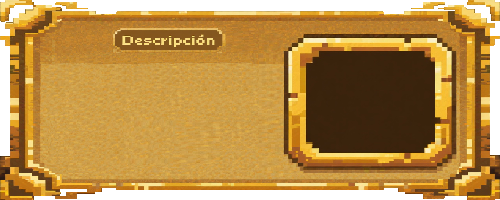
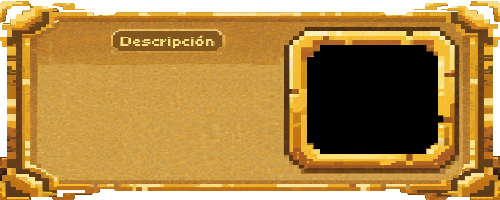
26

diff --git a/js/Scenes/EscenaElegir.js b/js/Scenes/EscenaElegir.js
@@ -1,5 +1,4 @@
 import { getState, setPersonajesEnUso } from '../globals.js';
-import { reescalarGlobalFlexible } from '../uiHelpers.js';
 
 export class EscenaElegir extends Phaser.Scene {
     constructor() {
@@ -10,12 +9,18 @@ export class EscenaElegir extends Phaser.Scene {
     }
 
     create() {
+        // ==============================================================
         // 1. CREACIÓN DE FONDOS Y ELEMENTOS ESTÁTICOS
-        this.fondo = this.add.image(0, 0, 'fondoVestuario').setDepth(1);
-        this.fondoPersonajes = this.add.image(0, 0, 'fondoPersonajes').setDepth(2);
+        // ==============================================================
         
-        // Título estilizado
-        this.tituloElegir = this.add.text(0, 0, 'Elige tu personaje', {
+        // Fondos centrados (825, 450)
+        this.fondo = this.add.image(825, 450, 'fondoVestuario').setDepth(1).setScale(1); // <-- Modifica la escala aquí
+        
+        // Panel izquierdo donde van los personajes (X: 528 = 32% de 1650 aprox)
+        this.fondoPersonajes = this.add.image(528, 657, 'fondoPersonajes').setDepth(2).setScale(1); // <-- Modifica la escala aquí
+        
+        // Título estilizado (Arriba, alineado con el panel izquierdo)
+        this.tituloElegir = this.add.text(528, 54, 'Elige tu personaje', {
             fontFamily: 'Silkscreen',
             fontSize: '40px',
             color: '#000000',
@@ -23,14 +28,32 @@ export class EscenaElegir extends Phaser.Scene {
             padding: { left: 22, right: 30, top: 5, bottom: 10 },
             align: 'center',
             fixedWidth: 600
-        }).setDepth(3);
+        }).setDepth(3).setOrigin(0.5).setScale(1); // <-- Modifica la escala aquí
 
-        // 2. BOTONES DE INTERFAZ
-        this.botonRegresar = this.add.image(0, 0, 'botonRegresar').setDepth(3).setInteractive({ useHandCursor: true });
-        this.iconoPersona = this.add.image(0, 0, 'iconoPersona').setDepth(3).setInteractive({ useHandCursor: true });
-        this.iconoGato = this.add.image(0, 0, 'iconoGato').setDepth(3).setInteractive({ useHandCursor: true });
+        // ==============================================================
+        // 2. BOTONES DE INTERFAZ (Panel derecho)
+        // ==============================================================
+        
+        // Botón Regresar (Arriba a la derecha. X: 1270 = 77% de 1650)
+        this.botonRegresar = this.add.image(1270, 90, 'botonRegresar')
+            .setDepth(3)
+            .setInteractive({ useHandCursor: true })
+            .setScale(1); // <-- Modifica la escala aquí
 
+        // Pestañas / Iconos de selección (Alineados a la derecha)
+        this.iconoPersona = this.add.image(1270, 315, 'iconoPersona')
+            .setDepth(3)
+            .setInteractive({ useHandCursor: true })
+            .setScale(1); // <-- Modifica la escala aquí
+            
+        this.iconoGato = this.add.image(1270, 585, 'iconoGato')
+            .setDepth(3)
+            .setInteractive({ useHandCursor: true })
+            .setScale(1); // <-- Modifica la escala aquí
+
+        // ==============================================================
         // 3. EVENTOS DE INTERFAZ
+        // ==============================================================
         this.botonRegresar.on('pointerdown', () => this.scene.start('EscenaInicio'));
 
         this.iconoPersona.on('pointerdown', () => {
@@ -43,23 +66,8 @@ export class EscenaElegir extends Phaser.Scene {
             this.renderPersonajes();
         });
 
-        // 4. RESPONSIVIDAD Y RENDERIZADO INICIAL
-        this.aplicarReescalado();
-        this.scale.on('resize', () => this.aplicarReescalado());
-        
+        // 4. RENDERIZADO INICIAL DE LA CUADRÍCULA
         this.renderPersonajes();
-    }
-
-    aplicarReescalado() {
-        // Modo FIT: Posicionamiento limpio y directo
-        reescalarGlobalFlexible(this, [
-            { obj: this.fondo, posX: 0.5, posY: 0.5, escalaRelativa: 1, autoFill: true },
-            { obj: this.fondoPersonajes, posX: 0.32, posY: 0.73, escalaRelativa: 1.15 },
-            { obj: this.tituloElegir, posX: 0.32, posY: 0.06, escalaRelativa: 0.8 },
-            { obj: this.botonRegresar, posX: 0.77, posY: 0.1, escalaRelativa: 0.57 },
-            { obj: this.iconoPersona, posX: 0.77, posY: 0.35, escalaRelativa: 0.27 },
-            { obj: this.iconoGato, posX: 0.77, posY: 0.65, escalaRelativa: 0.27 }
-        ]);
     }
 
     renderPersonajes() {
@@ -69,18 +77,18 @@ export class EscenaElegir extends Phaser.Scene {
         }
         this.iconosPersonajes = [];
 
-        // Definimos la lista a renderizar (Humanos o Gatos)
-        // Ya no verificamos isMobile() para forzar (0,0), el FIT resuelve la posición automáticamente.
+        // Definimos la lista a renderizar con COORDENADAS FIJAS (Pixeles reales)
+        // Basadas en los porcentajes originales: X (331, 709), Y (324, 666)
         const lista = this.mostrandoHumanos ? [
-            { key: 'personaje1', x: 0.201, y: 0.36 },
-            { key: 'personaje2', x: 0.43, y: 0.36 },
-            { key: 'personaje3', x: 0.201, y: 0.74 },
-            { key: 'personaje4', x: 0.43, y: 0.74 }
+            { key: 'personaje1', x: 331, y: 324 },
+            { key: 'personaje2', x: 709, y: 324 },
+            { key: 'personaje3', x: 331, y: 666 },
+            { key: 'personaje4', x: 709, y: 666 }
         ] : [
-            { key: 'gato1', x: 0.201, y: 0.36 },
-            { key: 'gato2', x: 0.43, y: 0.36 },
-            { key: 'gato3', x: 0.201, y: 0.74 },
-            { key: 'gato4', x: 0.43, y: 0.74 }
+            { key: 'gato1', x: 331, y: 324 },
+            { key: 'gato2', x: 709, y: 324 },
+            { key: 'gato3', x: 331, y: 666 },
+            { key: 'gato4', x: 709, y: 666 }
         ];
 
         lista.forEach(item => {
@@ -89,34 +97,29 @@ export class EscenaElegir extends Phaser.Scene {
     }
 
     crearIconoPersonaje(item, esHumano) {
-        const icono = this.add.image(0, 0, item.key)
+        // Creamos el icono directamente en su posición de cuadrícula
+        const icono = this.add.image(item.x, item.y, item.key)
             .setInteractive({ useHandCursor: true })
-            .setDepth(4);
+            .setDepth(4)
+            .setScale(1); // <-- Modifica la escala general de los retratos aquí
 
+        // Evento de selección
         icono.on('pointerdown', () => {
-            // Guardamos la selección en el estado global unificado
             if (esHumano) {
                 setPersonajesEnUso(item.key, null); 
             } else {
                 setPersonajesEnUso(null, item.key); 
             }
-            
-            // Re-renderizamos para que se aplique el "Tinte" visual al seleccionado
-            this.renderPersonajes();
+            this.renderPersonajes(); // Re-renderizamos para aplicar el tinte
         });
 
-        // Escala y posicionamiento para los iconos generados dinámicamente
-        reescalarGlobalFlexible(this, [
-            { obj: icono, posX: item.x, posY: item.y, escalaRelativa: 0.37 }
-        ]);
-
-        // Leemos el estado global actual para saber si este ícono debe brillar/estar seleccionado
+        // Tinte de selección visual (Morado claro)
         const seleccionado = esHumano
             ? getState().personajeHumanoEnUso === item.key
             : getState().personajeGatoEnUso === item.key;
 
         if (seleccionado) {
-            icono.setTint(0xc6b7ff); // Color morado claro
+            icono.setTint(0xc6b7ff); 
         } else {
             icono.clearTint();
         }

diff --git a/js/Scenes/EscenaLogros.js b/js/Scenes/EscenaLogros.js
@@ -141,25 +141,25 @@ export class EscenaLogros extends Phaser.Scene {
             
             // Reemplacé .setDisplaySize() por .setScale() para seguir el estándar. 
             // Te sugiero exportar las cajas a su tamaño ideal de 650x280 px.
-            const recuadro = this.add.image(625, y, recuadroKey).setDepth(2).setScale(1.5, 1.25); // <-- Modifica la escala aquí
+            const recuadro = this.add.image(625, y, recuadroKey).setDepth(2).setScale(1.4, 1.25); // <-- Modifica la escala aquí
 
             // 2. Imagen del Logro
             let img = null;
             if (logro.imagen) {
                 const imgClean = logro.imagen.replace(/\.png$/i, '');
                 // De igual forma, asume escala 1. Ideal exportar los iconos a 140x140 px.
-                img = this.add.image(590, y, imgClean).setDepth(3).setScale(1); // <-- Modifica la escala aquí
+                img = this.add.image(800, y, imgClean).setDepth(3).setScale(1.3); // <-- Modifica la escala aquí
             }
 
             // 3. Textos Nativos (Coordenadas calculadas y fijas)
-            const nombre = this.add.text(710, y - 45, logro.nombre, {
-                fontSize: '24px',
+            const nombre = this.add.text(335, y - 35, logro.nombre, {
+                fontSize: '30px',
                 color: '#000000',
                 wordWrap: { width: 330 }
             }).setOrigin(0, 0.5).setDepth(4).setScale(1); // <-- Modifica la escala aquí
 
-            const desc = this.add.text(710, y + 19, logro.descripcion, {
-                fontSize: '15px',
+            const desc = this.add.text(335, y + 29, logro.descripcion, {
+                fontSize: '21px',
                 color: '#000000',
                 wordWrap: { width: 320 }
             }).setOrigin(0, 0.5).setDepth(4).setScale(1); // <-- Modifica la escala aquí

diff --git a/js/main.js b/js/main.js
@@ -78,7 +78,7 @@ class PreloadScene extends Phaser.Scene {
         });
 
         this.load.on('complete', () => {
-            this.scene.start('EscenaLogros'); //aqui EscenaInicio
+            this.scene.start('EscenaInicio'); //aqui EscenaInicio
         });
 
         // --- CARGA MASIVA DE ASSETS ESTATICOS ---
@@ -176,8 +176,8 @@ class PreloadScene extends Phaser.Scene {
             // Recuadros
             { key: 'recuadroLogroMaestro', path: 'Recuadros/recuadroLogroMaestro.png' },
             { key: 'recuadroLogroNovato', path: 'Recuadros/recuadroLogroNovato.png' },
-            { key: 'recuadroLogroMitico', path: 'Recuadros/recuadroLogroMitico.png' },
-
+            { key: 'recuadroLogroMitico', path: 'recuadroLogroMitico.png' },
+            { key: 'fondoPersonajes', path: 'Recuadros/fondoPersonajes2.png' },
 
 
 
@@ -185,11 +185,11 @@ class PreloadScene extends Phaser.Scene {
             
 
             { key: 'botonDescripcion', path: 'botonDescripcion.png' },
-            { key: 'fondoPersonajes', path: 'fondoPersonajes2.png' },
+            
             { key: 'recuadroM', path: 'recuadroMago.png' },
             { key: 'recuadroP', path: 'recuadroPersona.png' },
             { key: 'recuadro', path: 'recuadro2.png' },
-            { key: 'barraobjetos', path: 'barraobjetos.png' },
+            { key: 'baraobjetos', path: 'barraobjetos.png' },
             { key: 'inventariopanel', path: 'inventariopanel.png' },
 
 
@@ -271,9 +271,9 @@ const config = {
         EscenaMenu,
         EscenaInstrucciones,
         EscenaLogros,
-        
-        
         EscenaElegir,
+        
+        
         EscenaEleccion,
         EscenaIntroduccionUno, 
         EscenaBosque,
